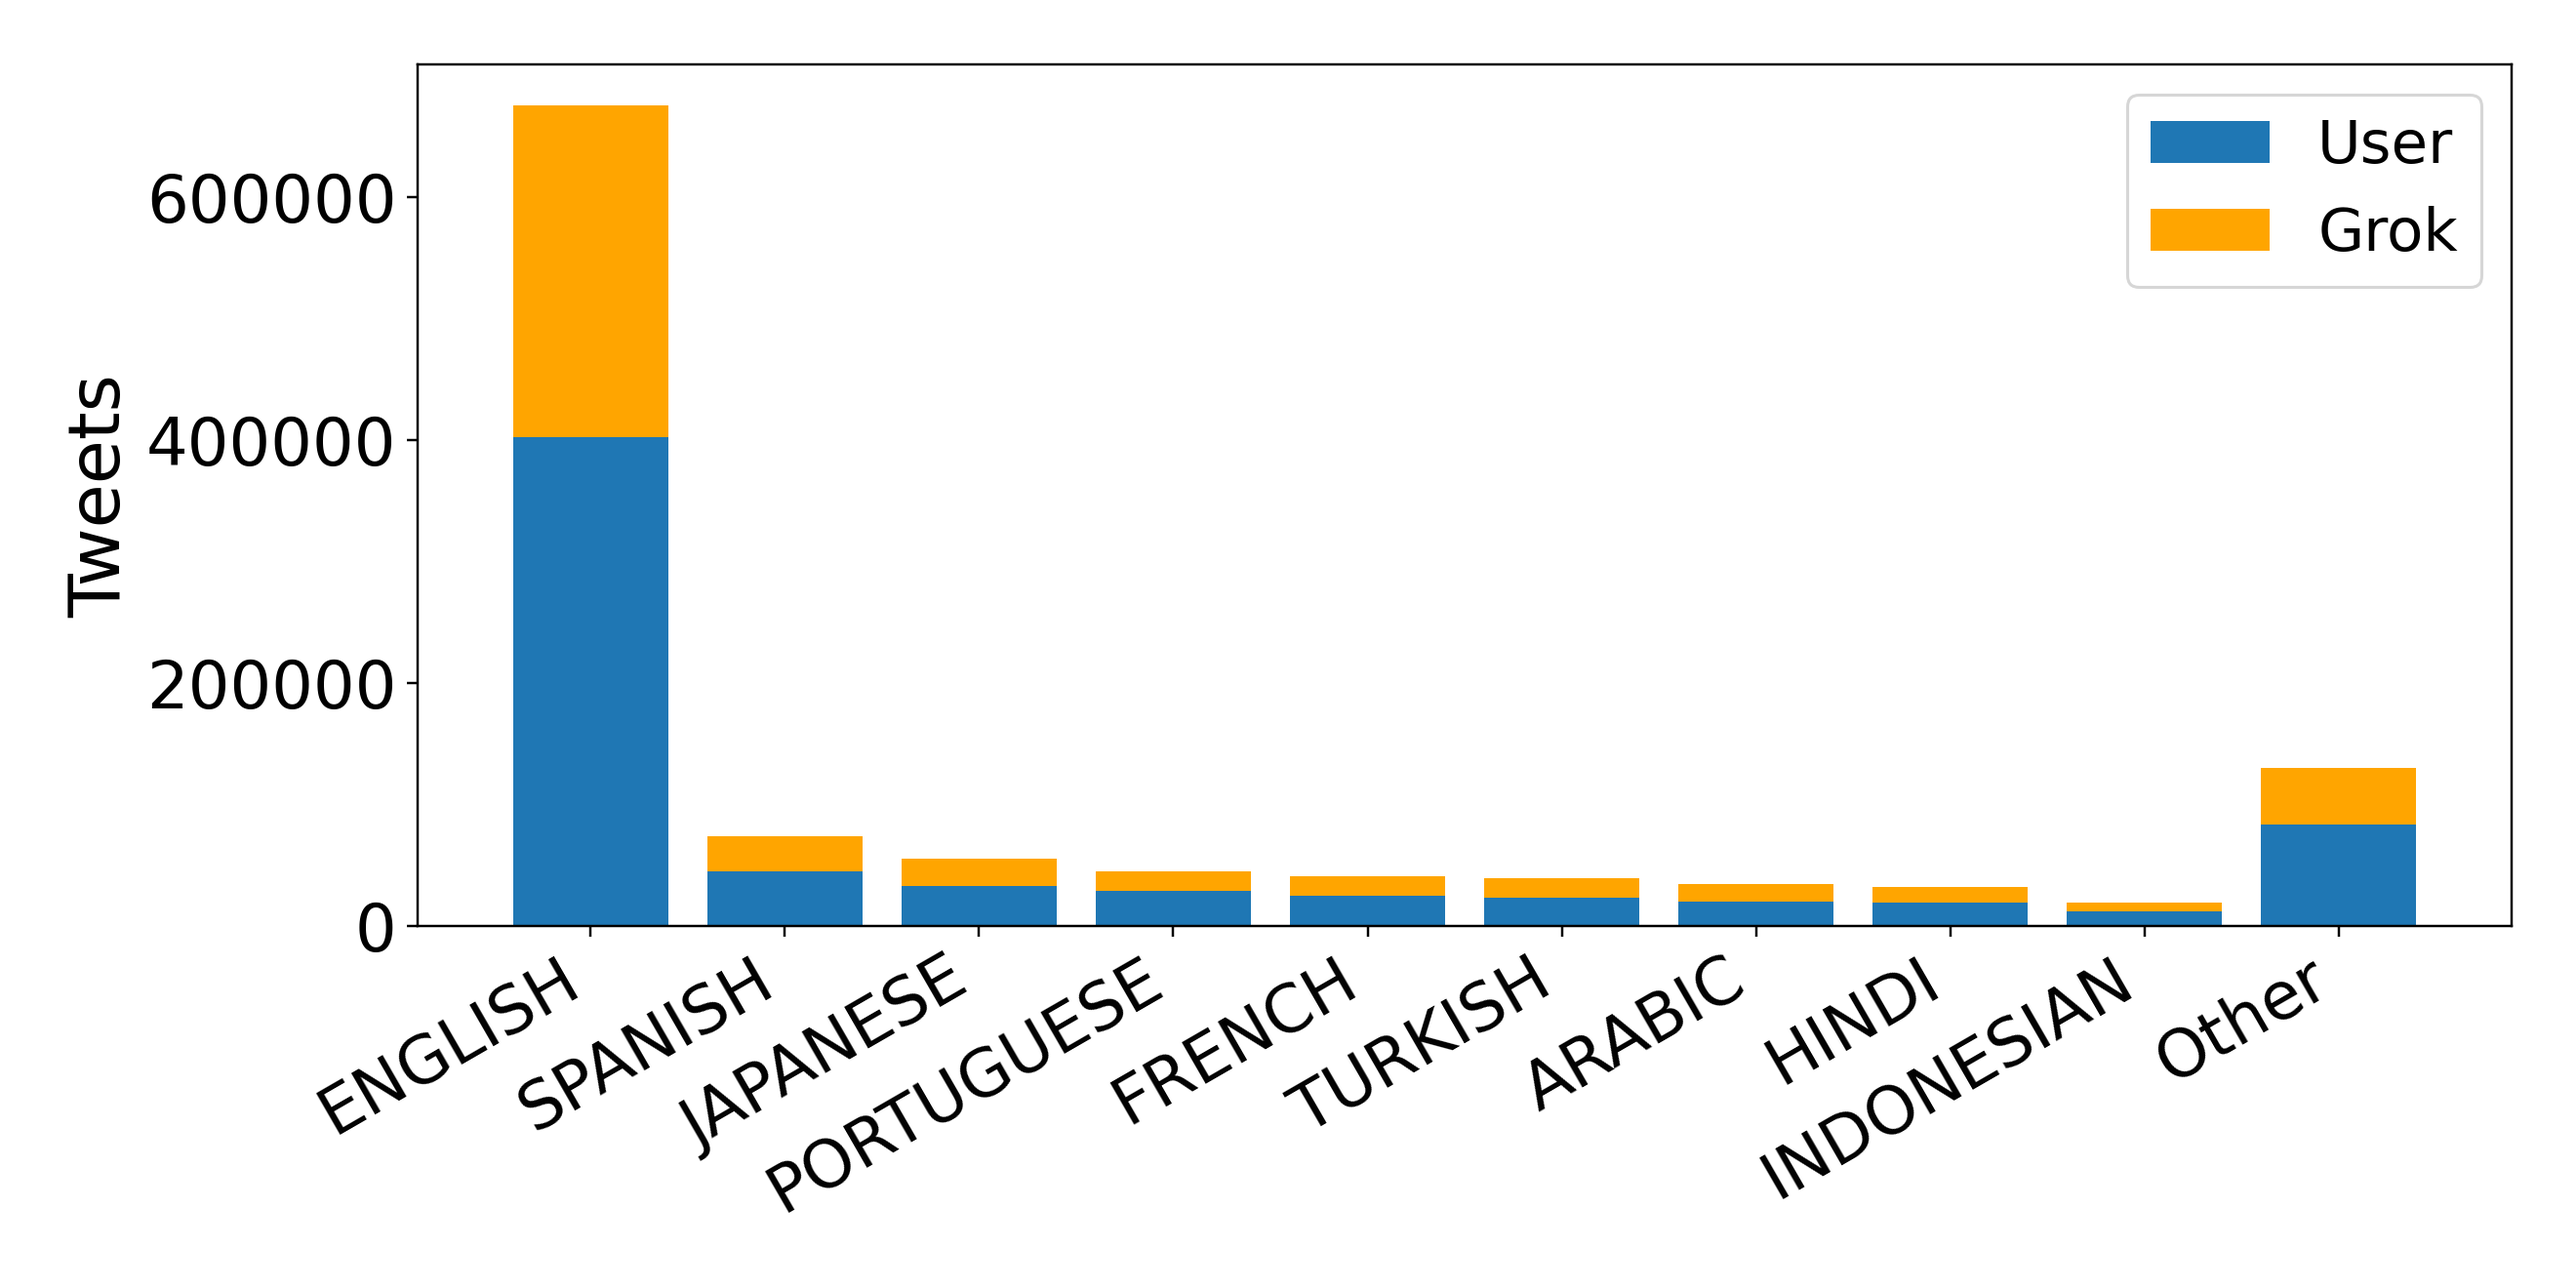
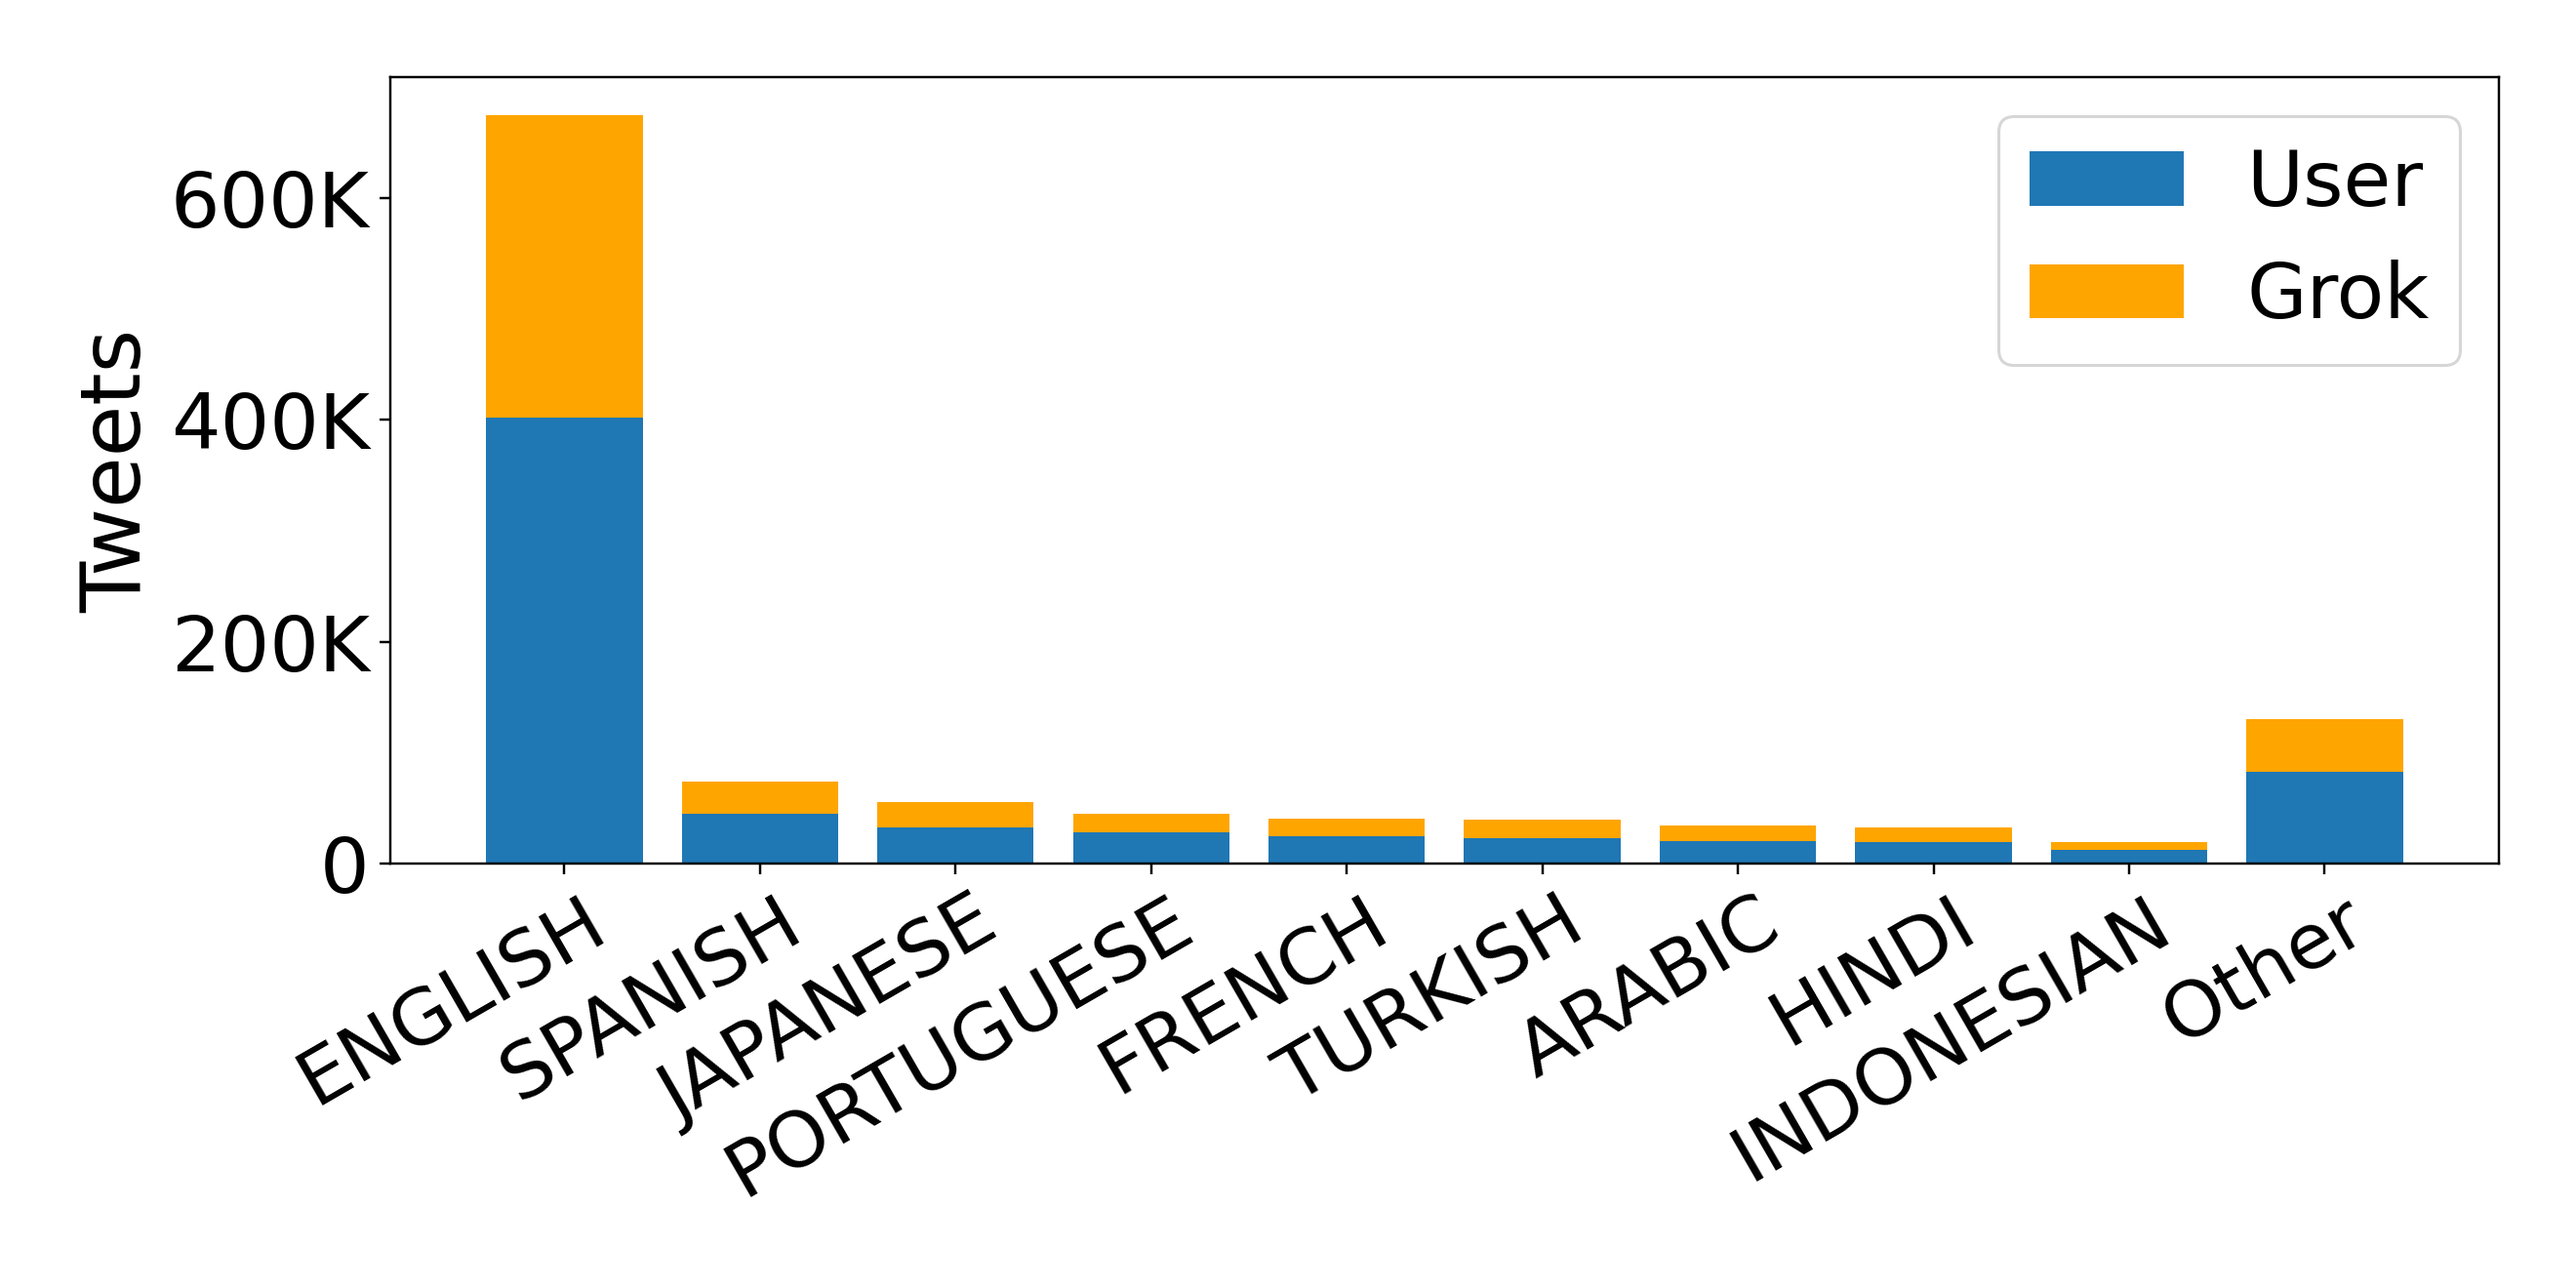
Updated generating plots

diff --git a/scraping/generate_plots.py b/scraping/generate_plots.py
@@ -6,16 +6,19 @@ from datetime import datetime, timedelta, timezone
 from typing import Dict, List, Tuple, Optional, Iterable
 import math
 import numpy as np
+from matplotlib import transforms as mtransforms
 
 import matplotlib.pyplot as plt
 import matplotlib as mpl
+from matplotlib.ticker import FuncFormatter
+
 mpl.rcParams.update({
-    "font.size": 20,        # base
+    "font.size": 24,        # base
     "axes.titlesize": 20,
-    "axes.labelsize": 24,
-    "xtick.labelsize": 22,
-    "ytick.labelsize": 22,
-    "legend.fontsize": 20,
+    "axes.labelsize": 28,
+    "xtick.labelsize": 26,
+    "ytick.labelsize": 26,
+    "legend.fontsize": 26,
 })
 
 # ---------- Config ----------
@@ -428,6 +431,61 @@ def aggregate_stats(input_path: str) -> Dict:
     }
 
 
+def _human_int(v):
+    v = float(v)
+    absv = abs(v)
+    if absv >= 1_000_000_000:
+        return f"{v/1_000_000_000:.0f}B"
+    if absv >= 1_000_000:
+        return f"{v/1_000_000:.0f}M"
+    if absv >= 1_000:
+        return f"{v/1_000:.0f}K"
+    return f"{int(v):d}"
+
+def _apply_human_y(ax):
+    ax.yaxis.set_major_formatter(FuncFormatter(lambda x, pos: _human_int(x)))
+    
+def plot_tweets_over_weeks_stacked(stats: Dict, save_prefix: str):
+    """
+    Stacked weekly bars: TWEETS counted by tweet author.
+    X-axis shows only month starts (and 'Before Mar').
+    """
+    weeks = week_range_inclusive(START_DATE, END_DATE)
+    user_map: Dict[str, int] = stats.get("wk_tweets_user", {})
+    grok_map: Dict[str, int] = stats.get("wk_tweets_grok", {})
+
+    before_user = int(stats.get("before_mar_tweets_user", 0))
+    before_grok = int(stats.get("before_mar_tweets_grok", 0))
+    user_counts = [before_user] + [int(user_map.get(w.isoformat(), 0)) for w in weeks]
+    grok_counts = [before_grok] + [int(grok_map.get(w.isoformat(), 0)) for w in weeks]
+
+    # numeric x positions (0 = 'Before Mar', 1..N = weekly bars)
+    x = np.arange(len(weeks) + 1)
+
+    plt.figure(figsize=(14, 6))
+    plt.bar(x, user_counts, label="User")
+    plt.bar(x, grok_counts, bottom=user_counts, label="Grok", color="orange")
+
+    # month ticks: 0 ('Before Mar') + index where month changes
+    month_pos = []
+    month_lab = []
+    last_month = None
+    for i, w in enumerate(weeks, start=1):  # 0 is the 'pre-March' bar
+        if w < START_DATE:
+            continue  # don't label the Feb-24 week
+        if w.month != last_month:
+            month_pos.append(i)
+            month_lab.append(w.strftime("%b"))  # Mar, Apr, ...
+            last_month = w.month
+
+    plt.xticks(month_pos, month_lab, rotation=0, ha="center")
+    plt.xlabel("Month")
+    plt.ylabel("Tweets")
+    _apply_human_y(plt.gca())
+    plt.legend()
+    plt.tight_layout()
+    plt.savefig(f"{save_prefix}_tweets_per_week.png", dpi=220)
+    
 # ---------- Plotting ----------
 def plot_turns(stats: Dict, save_prefix: str):
     """Unchanged from your latest: percent of total (not stacked)."""
@@ -440,7 +498,7 @@ def plot_turns(stats: Dict, save_prefix: str):
     plt.bar(xs, ys)
     plt.xlabel("Number of turns")
     plt.ylabel("% of total conversations")
-    plt.ylim(0, 100)
+    plt.ylim(0, 50)
     plt.tight_layout()
     plt.savefig(f"{save_prefix}_turns.png", dpi=220)
 
@@ -486,15 +544,26 @@ def plot_languages_stacked(stats: Dict, save_prefix: str):
         user_counts.append(remainder_user)
         grok_counts.append(remainder_grok)
 
-    # Plot stacked counts (legend: User / Grok; Grok is orange)
-    plt.figure(figsize=(12, 6))
-    plt.bar(labels, user_counts, label="User")
-    plt.bar(labels, grok_counts, bottom=user_counts, label="Grok", color="orange")
-    plt.ylabel("Tweets")
-    plt.xticks(rotation=30, ha="right")
-    plt.legend()
-    plt.tight_layout()
-    plt.savefig(f"{save_prefix}_languages.png", dpi=220)
+     # --- plot ---
+    fig, ax = plt.subplots(figsize=(12, 6))
+    ax.bar(labels, user_counts, label="User")
+    ax.bar(labels, grok_counts, bottom=user_counts, label="Grok", color="orange")
+    ax.set_ylabel("Tweets")
+    _apply_human_y(ax)
+
+    # Normal tick styling
+    ax.set_xticks(range(len(labels)))
+    ax.set_xticklabels(labels, rotation=30, ha="right")
+
+    # >>> Nudge tick labels a few pixels to the RIGHT <<<
+    dx_pts = 18  # change to 2/6/etc to taste
+    offset = mtransforms.ScaledTranslation(dx_pts / 72.0, 0.0, fig.dpi_scale_trans)
+    for tick in ax.get_xticklabels():
+        tick.set_transform(tick.get_transform() + offset)
+
+    ax.legend()
+    fig.tight_layout()
+    fig.savefig(f"{save_prefix}_languages.png", dpi=220)
 
 
 def _week_labels() -> List[str]:
@@ -520,32 +589,62 @@ def plot_threads_over_weeks_stacked(stats: Dict, save_prefix: str):
     plt.bar(labels, counts)  # single solid series
     plt.xlabel("Week (start date)")
     plt.ylabel("Threads")
+    _apply_human_y(plt.gca())
     plt.xticks(rotation=90, ha="center")
     plt.tight_layout()
     plt.savefig(f"{save_prefix}_threads_per_week.png", dpi=220)
 
 
-def plot_tweets_over_weeks_stacked(stats: Dict, save_prefix: str):
+def plot_engagement_totals(stats: Dict, save_prefix: str, use_log_scale: bool = True):
     """
-    Stacked weekly bars: TWEETS counted by tweet author.
+    Compare AVERAGE engagement per tweet for User vs Grok.
+    Uses stats['engagement']['sums'] and ['counts'] to compute means.
     """
-    weeks = week_range_inclusive(START_DATE, END_DATE)
-    user_map: Dict[str, int] = stats.get("wk_tweets_user", {})
-    grok_map: Dict[str, int] = stats.get("wk_tweets_grok", {})
+    eng = stats.get("engagement", {})
+    metrics: List[str] = list(eng.get("metrics", []))
 
-    labels = _week_labels()
-    user_counts = [int(stats.get("before_mar_tweets_user", 0))] + [int(user_map.get(w.isoformat(), 0)) for w in weeks]
-    grok_counts = [int(stats.get("before_mar_tweets_grok", 0))] + [int(grok_map.get(w.isoformat(), 0)) for w in weeks]
+    user = (eng.get("user") or {})
+    grok = (eng.get("grok") or {})
+    user_sums: Dict[str, int] = user.get("sums", {}) or {}
+    grok_sums: Dict[str, int] = grok.get("sums", {}) or {}
+    user_counts: Dict[str, int] = user.get("counts", {}) or {}
+    grok_counts: Dict[str, int] = grok.get("counts", {}) or {}
+
+    if not metrics:
+        print("No engagement metrics found in stats['engagement'].")
+        return
+
+    # Averages = sums / counts (guard divide-by-zero)
+    def _avg(sums: Dict[str, int], counts: Dict[str, int]) -> List[float]:
+        return [
+            (float(sums.get(m, 0)) / max(int(counts.get(m, 0)), 1))
+            for m in metrics
+        ]
+
+    u_vals = _avg(user_sums, user_counts)
+    g_vals = _avg(grok_sums, grok_counts)
+
+    x = list(range(len(metrics)))
+    width = 0.45
 
     plt.figure(figsize=(14, 6))
-    plt.bar(labels, user_counts, label="User")
-    plt.bar(labels, grok_counts, bottom=user_counts, label="Grok", color="orange")
-    plt.xlabel("Week (start date)")
-    plt.ylabel("Tweets")
-    plt.xticks(rotation=90, ha="center")
+    # User (default), Grok (orange), side-by-side
+    plt.bar([i - width/2 for i in x], u_vals, width=width, label="User")
+    plt.bar([i + width/2 for i in x], g_vals, width=width, label="Grok", color="orange")
+
+    plt.xlabel("Engagement metric")
+    plt.ylabel("Average per tweet")
+    _apply_human_y(plt.gca())  # 1.2K, 3.4M formatting
+    plt.xticks(x, metrics, rotation=0)
+    if use_log_scale:
+        plt.yscale("log")  # optional: heavy tails still possible across metrics
+        plt.ylabel("Avg per tweet (log scale)")
     plt.legend()
     plt.tight_layout()
-    plt.savefig(f"{save_prefix}_tweets_per_week.png", dpi=220)
+    plt.savefig(f"{save_prefix}_eng_avgs.png", dpi=220)
+    plt.close()
+
+
 
 
 def _format_bin_labels(edges: List[int]) -> List[str]:
@@ -565,50 +664,7 @@ def _format_bin_labels(edges: List[int]) -> List[str]:
     labels.append(f"{edges[-1]}+")
     return labels
 
-def plot_engagement_totals(stats: Dict, save_prefix: str, use_log_scale: bool = True):
-    """
-    Compare summed engagement totals for User vs Grok.
-    Produces one figure with grouped bars per metric + an 'ALL' total.
-    Requires stats['engagement'] with 'metrics' and per-author 'sums'.
-    """
-    eng = stats.get("engagement", {})
-    metrics: List[str] = list(eng.get("metrics", []))
-    user_sums: Dict[str, int] = (eng.get("user", {}) or {}).get("sums", {}) or {}
-    grok_sums: Dict[str, int] = (eng.get("grok", {}) or {}).get("sums", {}) or {}
 
-    if not metrics:
-        print("No engagement metrics found in stats['engagement'].")
-        return
-
-    # Build sequences in a stable order
-    u_vals = [int(user_sums.get(m, 0)) for m in metrics]
-    g_vals = [int(grok_sums.get(m, 0)) for m in metrics]
-
-    # Add overall "ALL" totals across all metrics
-    u_all = sum(u_vals)
-    g_all = sum(g_vals)
-    metrics_plus = metrics + ["ALL"]
-    u_vals_plus = u_vals + [u_all]
-    g_vals_plus = g_vals + [g_all]
-
-    x = list(range(len(metrics_plus)))
-    width = 0.45
-
-    plt.figure(figsize=(14, 6))
-    # User (default), Grok (orange), side-by-side
-    plt.bar([i - width/2 for i in x], u_vals_plus, width=width, label="User")
-    plt.bar([i + width/2 for i in x], g_vals_plus, width=width, label="Grok", color="orange")
-
-    plt.xlabel("Engagement metric")
-    plt.ylabel("Total (sum across tweets)")
-    plt.xticks(x, metrics_plus, rotation=0)
-    if use_log_scale:
-        plt.yscale("log")  # handles huge 'views' vs smaller metrics
-        plt.ylabel("Total (log scale)")
-    plt.legend()
-    plt.tight_layout()
-    plt.savefig(f"{save_prefix}_eng_totals.png", dpi=220)
-    plt.close()
 
 
 # ---------- I/O ----------
